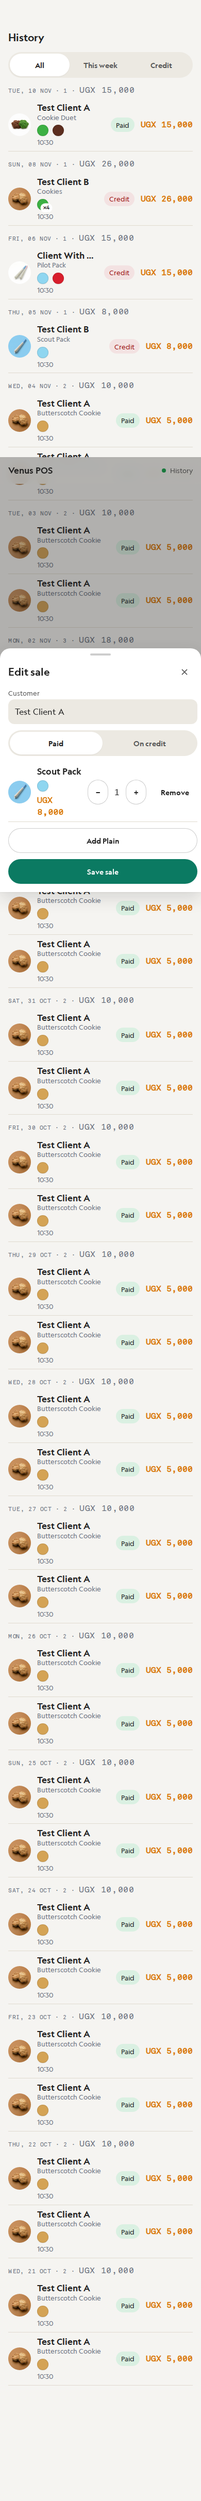
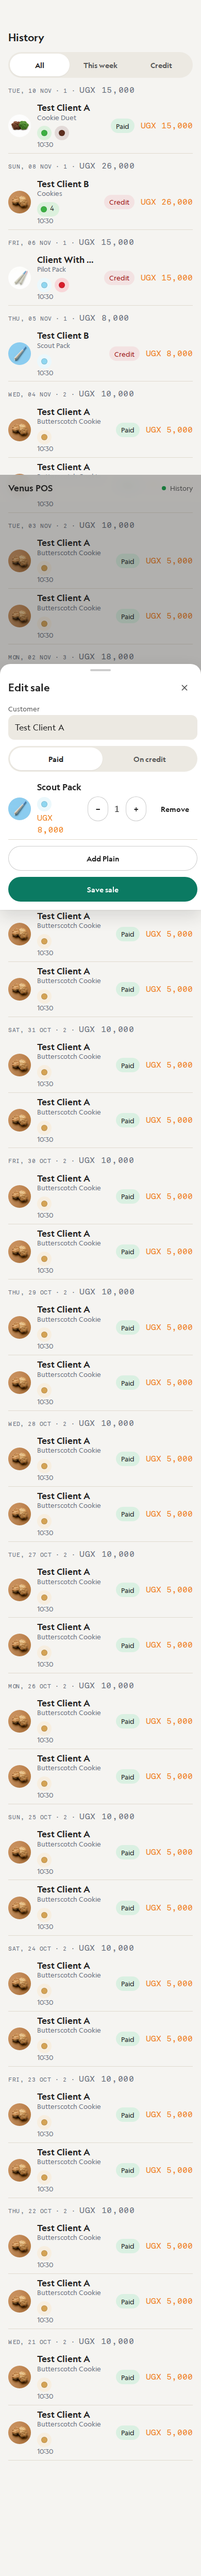
wip: restyle flavour swatches for the v2 pills
Counts sit in the chip instead of a badge on the dot. Plain is set off with a gap. Totals use the melon accent rather than the old gold.

diff --git a/src/ui/ui.css b/src/ui/ui.css
@@ -94,23 +94,22 @@
 }
 
 .v-money--amber {
-  color: #d97706;
-  font-weight: 700;
+  color: var(--melon);
 }
 
 .v-qty {
   flex: 0 0 auto;
-  min-width: 2rem;
-  height: 2rem;
+  min-width: 28px;
+  height: 28px;
   margin-top: 1px;
-  padding: 0 6px;
-  border-radius: 10px;
+  padding: 0 8px;
+  border-radius: var(--r-pill);
   display: inline-flex;
   align-items: center;
   justify-content: center;
-  font: 700 14px/1 var(--font-mono);
-  color: var(--accent);
-  background: color-mix(in srgb, var(--accent) 12%, transparent);
+  font: 500 13px/1 var(--font-mono);
+  color: var(--accent-ink);
+  background: var(--mint-tint);
 }
 
 .v-cart-line {
@@ -137,78 +136,69 @@
   display: flex;
   flex-wrap: nowrap;
   align-items: center;
-  gap: 8px;
+  gap: 6px;
   max-width: 100%;
   min-width: 0;
-  margin-top: 6px;
-  padding: 0 2px 4px 0;
+  margin-top: 8px;
   overflow-x: auto;
   scrollbar-width: none;
 }
 
 .v-swatch {
-  position: relative;
   display: inline-flex;
   align-items: center;
   justify-content: center;
+  gap: 6px;
   flex-shrink: 0;
+  width: 28px;
+  height: 28px;
+  border-radius: var(--r-pill);
+  background: color-mix(in srgb, var(--swatch) 18%, var(--surface));
+}
+
+.v-swatch--count {
+  width: auto;
+  padding: 0 10px 0 7px;
 }
 
 .v-swatch__dot {
-  width: 22px;
-  height: 22px;
-  border-radius: 50%;
-  background: var(--swatch, #ccc);
-  box-shadow:
-    inset 0 0 0 1px rgb(0 0 0 / 10%),
-    0 1px 2px rgb(0 0 0 / 6%);
+  width: 12px;
+  height: 12px;
+  border-radius: var(--r-pill);
+  background: var(--swatch, var(--plain));
+  box-shadow: inset 0 0 0 1px rgb(33 33 33 / 14%);
 }
 
-.v-swatch--bordered .v-swatch__dot {
-  box-shadow:
-    inset 0 0 0 1px rgb(0 0 0 / 22%),
-    0 1px 2px rgb(0 0 0 / 6%);
+.v-swatch--bordered {
+  box-shadow: inset 0 0 0 1px var(--line-strong);
 }
 
 .v-swatch__qty {
-  position: absolute;
-  right: -6px;
-  bottom: -3px;
-  min-width: 18px;
-  height: 15px;
-  padding: 0 4px;
-  border-radius: 999px;
-  display: inline-flex;
-  align-items: center;
-  justify-content: center;
-  font: 700 10px/1 var(--font-mono);
+  font: 500 13px/1 var(--font-mono);
   color: var(--fg);
-  background: #fff;
-  box-shadow: 0 0 0 1.5px var(--surface, #fff);
 }
 
 .v-swatch-more {
   flex-shrink: 0;
-  min-width: 22px;
-  height: 22px;
-  padding: 0 6px;
+  min-width: 28px;
+  height: 28px;
+  padding: 0 8px;
   border-radius: var(--r-pill);
   display: inline-flex;
   align-items: center;
   justify-content: center;
-  font: 700 10px/1 var(--font-mono);
-  color: var(--fg-3);
+  font: 500 13px/1 var(--font-mono);
+  color: var(--fg-2);
   background: var(--surface-sunk);
-  box-shadow: inset 0 0 0 1px var(--line);
 }
 
 .v-swatch-sep {
   flex-shrink: 0;
-  width: 1px;
-  height: 14px;
-  margin: 0 2px;
-  border-radius: 1px;
-  background: var(--line-strong);
+  width: 3px;
+  height: 16px;
+  margin: 0 4px;
+  border-radius: var(--r-pill);
+  background: var(--plain);
 }
 
 .v-fact {

diff --git a/src/ui/FlavorSwatches.tsx b/src/ui/FlavorSwatches.tsx
@@ -9,18 +9,18 @@ function Swatch({ entry }: { entry: FlavorSwatch }) {
   const title = entry.qty > 1 ? `${entry.name} ×${entry.qty}` : entry.name;
   return (
     <span
-      class={`v-swatch${isLight(entry.color) ? ' v-swatch--bordered' : ''}`}
+      class={`v-swatch${entry.qty > 1 ? ' v-swatch--count' : ''}${isLight(entry.color) ? ' v-swatch--bordered' : ''}`}
       role="listitem"
       style={{ '--swatch': entry.color } as Record<string, string>}
       title={title}
     >
       <span class="v-swatch__dot" aria-hidden="true" />
-      {entry.qty > 1 ? <span class="v-swatch__qty">×{entry.qty}</span> : null}
+      {entry.qty > 1 ? <span class="v-swatch__qty">{entry.qty}</span> : null}
     </span>
   );
 }
 
-/** One filled circle per flavour. The readable list is the aria-label, not on-screen text. */
+/** Colour chips for a line. Repeats show a count in the chip. Plain sits after a gap. Names stay in the aria-label. */
 export function FlavorSwatches({
   breakdown,
   productId,

diff --git a/src/domain/flavor-swatches.ts b/src/domain/flavor-swatches.ts
@@ -1,7 +1,7 @@
 /**
- * Cart flavour dots. Same rules as `cartFlavorEntries` / `cartFlavorSwatchesHtml`
- * in `legacy/js/orders.js`: one filled circle per flavour, Plain (or the
- * variety pack's fixed flavour) pinned after a divider, overflow collapses to +N.
+ * Which flavours a line shows, and in what order.
+ * Repeats keep a count. A variety pack's fixed flavour (Plain, or butterscotch
+ * on the quartet) sits after the others. Extra flavours collapse to +N.
  */
 import { CAT_MAP } from './catalog';
 import { findProduct, varietyFixedFlavor } from './pricing/pack-config';
